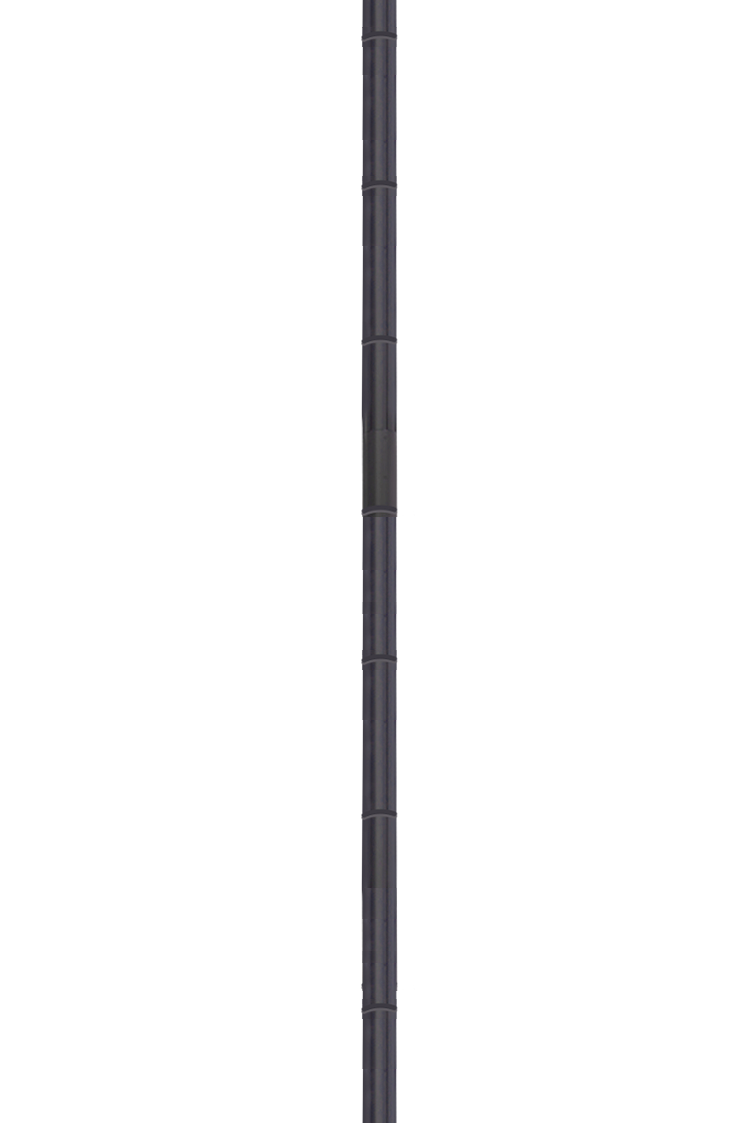
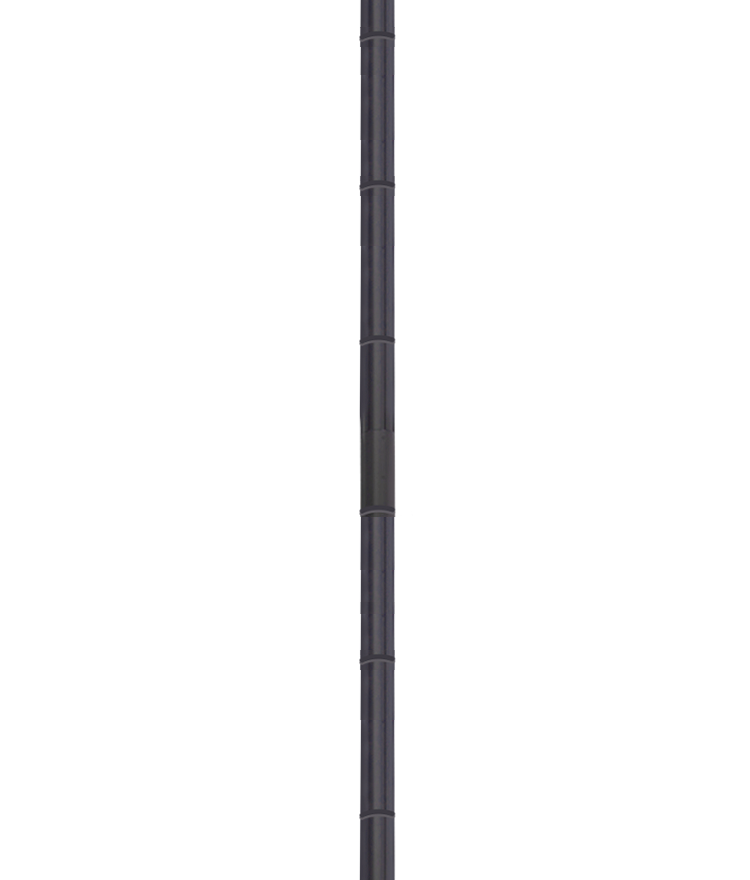
background 이미지 변경

Changed region(s): [[0.46, 0.0, 0.552, 1.0]]

diff --git a/css/gate/style.css b/css/gate/style.css
@@ -12,7 +12,7 @@
     layout
 ****************************************************************************/
 /* Frame */
-#wrap {font-family:'SCDream',sans-serif;}
+#wrap {position:relative;width:100%;height:100%;font-family:'SCDream',sans-serif}
 #container {position:relative;height:100%;z-index:20}
 #footer {position:relative;z-index:20}
 
@@ -45,9 +45,9 @@
 /* swiper */
 #secVisual {position:fixed;width:100%;height:100%}
 #secVisual .swiper-container {height:100%}
-#secVisual .swiper-slide:nth-child(2) {background:url('/img/gate_2020/visual_sign_pole.png') 0 0 no-repeat;background-size:100%}
-#secVisual .swiper-slide:nth-child(2)::before {content:'';position:absolute;bottom:0;left:50%;z-index:1;width:100%;height:116.4vw;max-height:calc(var(--vh, 1vh) * 70);background:url('/img/gate_2020/visual_sign_model.png?v=1') center bottom no-repeat;background-size:contain;transform:translateX(-50%)}
-#secVisual .parallax-bg {position: absolute;width:calc(var(--vh, 1vh) * 215);height:calc(var(--vh, 1vh) * 100);background-size:100%}
+#secVisual .swiper-slide:nth-child(2)::before {content:'';display:block;position:absolute;bottom:0;left:50%;z-index:1;width:100%;height:116.4vw;max-height:calc(var(--vh, 1vh) * 70);background:url('/img/gate_2020/visual_sign_model.png') center bottom no-repeat;background-size:contain;transform:translateX(-50%)}
+#secVisual .swiper-slide:nth-child(2)::after {content:'';display:block;position:absolute;top:0;left:0;z-index:-1;width:100%;height:117.3vw;background:url('/img/gate_2020/visual_sign_pole.png?v=3') 0 0 no-repeat;background-size:cover}
+#secVisual .parallax-bg {position: absolute;width:calc(var(--vh, 1vh) * 180);height:calc(var(--vh, 1vh) * 100);background-size:auto 100%}
 
 /* swiper - Pagination */
 #secVisual .swiper-pagination {bottom:6.667vw}
@@ -65,7 +65,7 @@
 
 /* SIGN(이정표) */
 #secVisual .btn_sign {position:absolute;width:45.33vw;height:15.2vw;background:0 0 no-repeat;background-size:cover}
-#secVisual .btn_shop {left:50%;top:-15.2vw;margin-left:-46vw;background-image:url('/img/gate_2020/visual_sign_shop.png');transform-origin:center right}
+#secVisual .btn_shop {left:50%;top:-15.2vw;margin-left:-46.7vw;background-image:url('/img/gate_2020/visual_sign_shop.png');transform-origin:center right}
 #secVisual .btn_fa {left:50%;top:-15.2vw;margin-left:2vw;background-image:url('/img/gate_2020/visual_sign_fa.png');transform-origin:center left}
 #secVisual .hand {position:absolute;width:10.4vw;height:10.4vw;background:url('/img/gate_2020/ico_hand.png') 0 0 no-repeat;background-size:cover;transform-origin:bottom center}
 #secVisual .hand::after {content:'';position:absolute;width:6.533vw;height:3.733vw;background:0 0 no-repeat;background-size:cover}

diff --git a/index.html b/index.html
@@ -1,10 +1,13 @@
 <!DOCTYPE html>
 <html lang="ko">
 <head>
-    <meta charset="utf-8">
-    <title>보험클리닉 | 피플라이프</title>
+    <!-- 캐쉬제거 -->
+    <meta http-equiv="Cache-Control" content="no-cache, no-store, must-revalidate">
+    <meta http-equiv="Expires" content="0">
+    <meta http-equiv="Pragma" content="no-cache">
 
     <!-- SEO -->
+    <title>보험클리닉 | 피플라이프</title>
     <meta name="title" content="피플라이프 보험클리닉">
     <meta name="description" content="보험조회-보상청구-보험비교까지 한번에 해결!">
     <meta name="keywords" content="피플라이프, 재무설계, 보험클리닉, 보험비교, 보험비교견적, 보험상담, 보험리모델링, 인슈테크, 인공지능보험">
@@ -14,7 +17,7 @@
     <meta property="og:image" content="https://www.bohumclinic.com/img/main/og_gate.jpg">
     <meta property="og:url" content="https://m.bohumclinic.com">
 
-    <!-- SITE INFO -->
+    <!-- SITE INFO -->    
     <meta charset="UTF-8">
     <meta name="viewport" content="width=device-width, initial-scale=1.0, user-scalable=no, viewport-fit=cover">
     <meta http-equiv="X-UA-Compatible" content="ie=edge">
@@ -37,7 +40,7 @@
     <!-- 메인 비주얼  -->
     <section id="secVisual">
         <div class="swiper-container">
-            <div class="parallax-bg" style="background-image:url('/img/gate_2020/visual_bg.jpg')"></div>
+            <div class="parallax-bg" style="background-image:url('/img/gate_2020/visual_bg.jpg?v=1')"></div>
             <div class="swiper-wrapper">
                 <div class="swiper-slide">
                     <!-- SHOP -->
